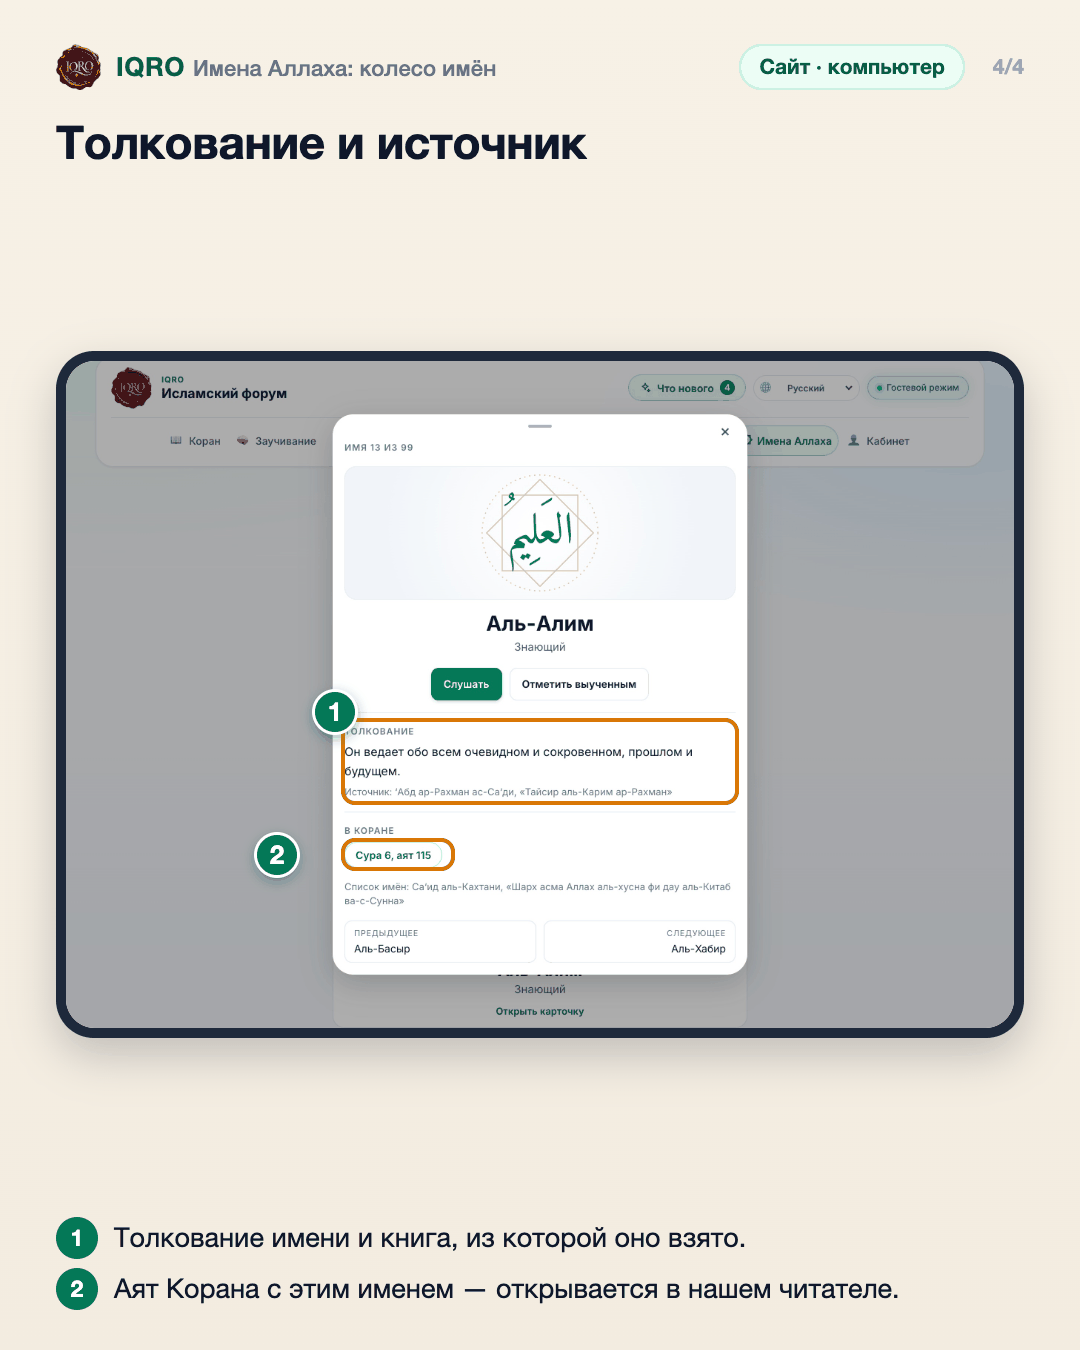
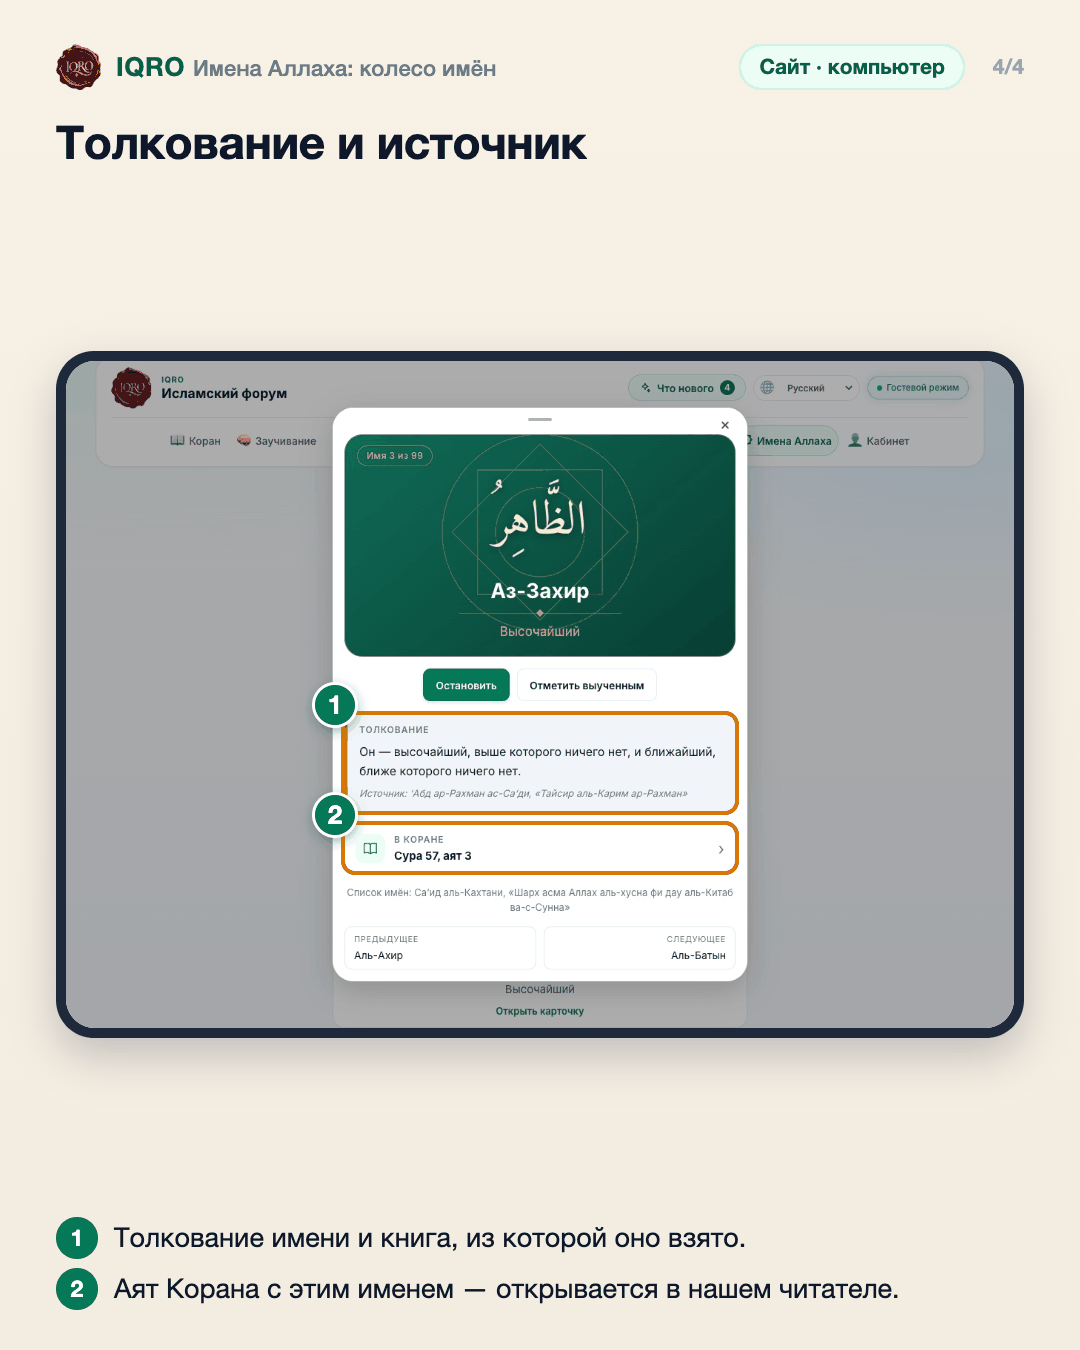
Guide pictures show the new card of a name

Changed region(s): [[0.2139, 0.28, 0.7028, 0.7467], [0.0611, 0.0311, 0.0917, 0.0622]]

diff --git a/docs/guides/names-of-allah/README.md b/docs/guides/names-of-allah/README.md
@@ -16,7 +16,7 @@
 
 ![Карточка имени](2-app-card.png)
 
-Нажмите на имя под колесом — откроется карточка: крупное арабское написание, значение, толкование и книга, из которой оно взято. Внизу — переход к предыдущему и следующему имени.
+Нажмите на имя под колесом — откроется карточка: каллиграфия на изумрудной панели, значение, толкование и книга, из которой оно взято. Внизу — переход к предыдущему и следующему имени.
 
 ## То же колесо на сайте
 
@@ -32,4 +32,4 @@
 
 ---
 
-Основа снимков: локальная копия сайта и эмулятор Android с черновиком списка, 12 ноября 2026. После утверждения списка владельцем и выпуска снимки нужно переснять на рабочем сайте и телефоне.
+Основа снимков: приложение — телефон Redmi с тестовой сборкой и эмулятор Android, сайт — локальная копия; 12 ноября 2026, до выпуска раздела. После выпуска снимки нужно переснять на рабочем сайте.
